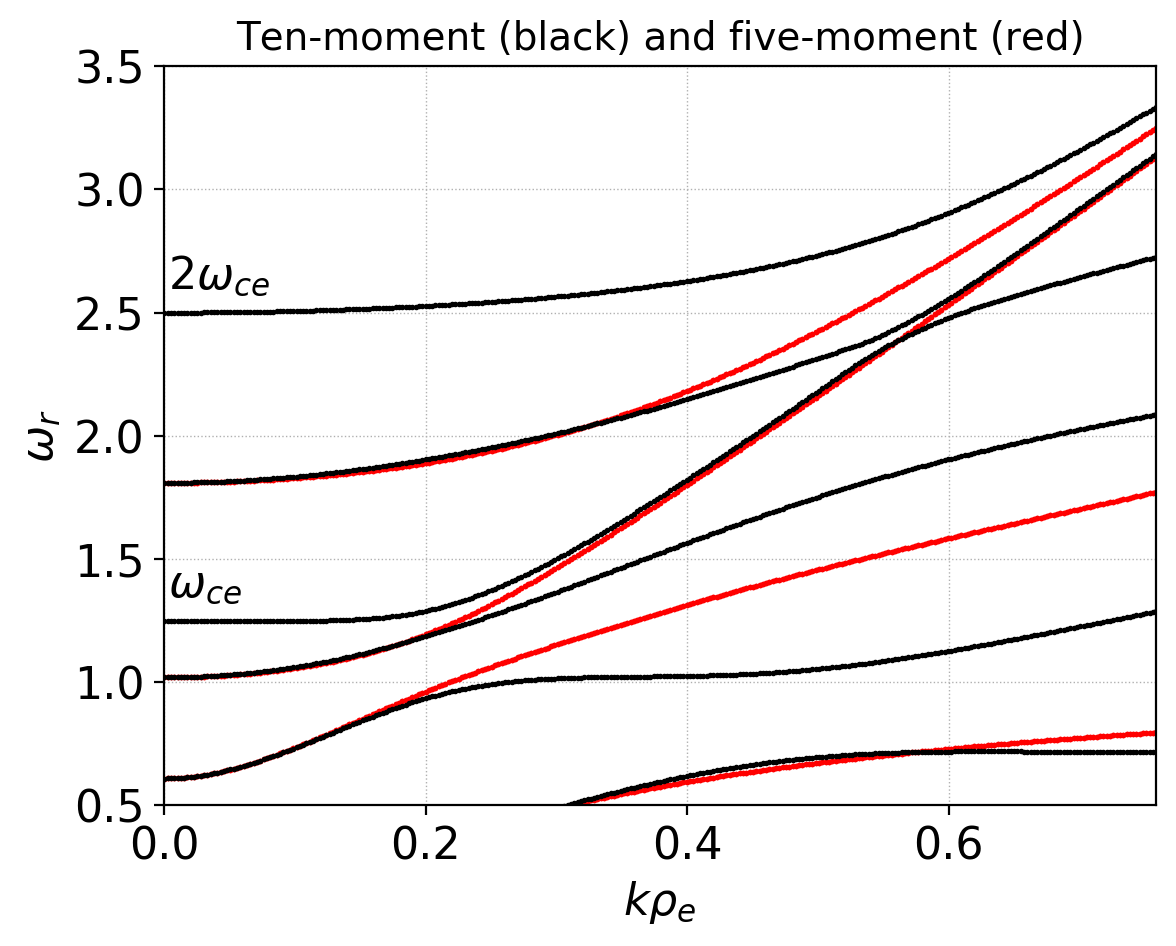
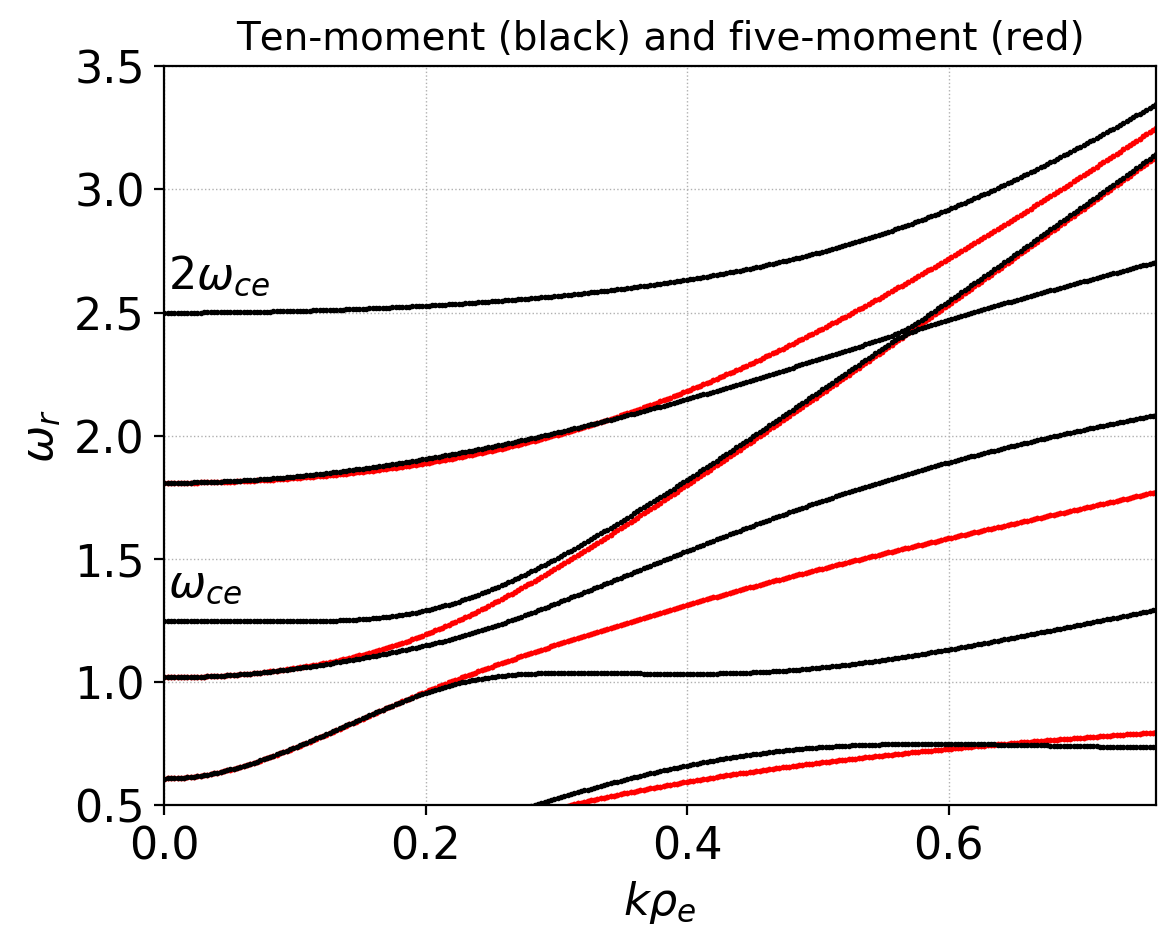
Ten-moment comparisons with high and low-frequency branches of five-moment models

diff --git a/je/je34/je34-linear-dispersion.rst b/je/je34/je34-linear-dispersion.rst
@@ -38,10 +38,123 @@ model and Landau closures is unique to Gkeyll.
 Eventually, the goal is to perform a careful comparison of the linear
 physics contained in the ten-moment system (especially with various
 Landau and other simplified closures) with full kinetic
-equations. Other applications are to computing RF wave-propagation and
-potential extension to retain quadratic nonlinearities to allow study
-of wave-wave coupling physics.
+equations. Other applications are to computing initial conditions that
+excite specific modes, computing RF wave-propagation and potential
+extension to retain quadratic nonlinearities to allow study of
+wave-wave scattering/coupling physics.
 
+Note on running the dispersion solver tool
+------------------------------------------
+
+To run the tool create an input file (Lua script, see examples below
+in various figure captions) and run it as::
+
+  gkyl multimomlinear -i inp.lua
+
+This will create a output file with the eigenvalues stored in a Gkeyll
+"DynVector" object. For each element in the dynvector, the first three
+components are the components of the wave-vector and the rest the
+corresponding :math:`\omega_n(\mathbf{k})` with real and imaginary
+parts stored separately (next to each other). You can plot the real
+part of the frequencies as function of wave-vector (say :math:`k_x`)
+as::
+
+  pgkyl -f inp_frequencies.bp val2coord -x0 -y 3::2 pl -s -f0 --no-legend --xlabel "k" --ylabel "$\omega_r$"
+
+And the imaginary parts as::
+
+  pgkyl -f inp_frequencies.bp val2coord -x0 -y 4::2 pl -s -f0 --no-legend --xlabel "k" --ylabel "$\omega_i$"
+
+Often, it is useful to plot the eigenvalues in the complex plane (real
+part on X-axis and imaginary part on the Y-axis). For this do::
+
+  pgkyl -f inp_frequencies.bp val2coord -x3::2 -y 4::2 pl -s -f0 --no-legend --xlabel "$\omega_r$" --ylabel "$\omega_i$"  
+
+Note that the frequencies are not outputed in any particular
+order. Hence it is not possible to easily extract a single "branch" of
+the dispersion relation from the output. Please see pgkyl help to
+understand what the ``val2coord`` and ``pl`` (short for ``plot``) do
+and how to use them.
+
+The boolean flag ``calcEigenVectors`` can be set to ``true`` to
+optionally compute the eigenvectors. These are stored in a
+``CartField`` object.
+
+Waves in a uniform plasma
+-------------------------
+
+In the first test I look at the problem of waves in a uniform
+plasma. The first test assumes the plasma is composed of cold
+electrons and ions (:math:`m_i/m_e = 25`) with the background magnetic
+field :math:`\mathbf{B}_0 = (1.0, 0.0, 0.75)` transverse to the
+wave-vector pointing in the X-direction . The following plot shows the
+various plasma waves that appear in the system.
+
+.. figure:: iso-cold-waves.png
+  :width: 100%
+  :align: center
+
+  Waves in a cold magnetized plasma, with wave-vector transverse to
+  the background magnetic field. Seen are the right (R) and left (L)
+  polarized modes that asymptote to light waves at large
+  :math:`k`. Also seen the second branch of the R mode which contains
+  the Whister mode at low-:math:`k` and also the Alfven mode. See
+  input file :doc:`iso-1-wave <iso-1-wave>`.
+
+In the next problem I use the five-moment model with a finite pressure
+:math:`p = 0.1` for both electrons and ions. The dispersion relation
+is compared to the corresponding cold case in the following plot.
+
+.. figure:: iso-5m-cmp-cold.png
+  :width: 100%
+  :align: center
+
+  Waves in a cold (black) and five-moment finite-pressure (red)
+  magnetized plasma, with wave-vector transverse to the background
+  magnetic field. The finite pressure effect changes the sound-wave
+  mediated branches, allowing them to propagating at high :math:`k`.
+  See input file :doc:`5m-1-wave <5m-1-wave>`.
+
+For the next test I use the ten-moment model with a diagonal pressure
+tensor :math:`P_{xx} = P_{yy} = P_{zz} = 0.1` and all other components
+set to zero. This gives the same scalar pressure as the previous
+five-moment test. The ten-moment model has a a lot of modes. To
+illustrate the differences between five-moments the following plot
+shows the high-frequency branches of the dispersion relation. Note the
+existence of *two* cyclotron harmonics marked with :math:`\omega_{ce}`
+and :math:`2 \omega_{ce}` in the plot. These are missing in the
+five-moment model. Also, the R- and L-mode structure is different,
+with the lower cyclotron harmonic transitioning to the L-mode and the
+upper cyclotron harmomic to the R-mode at larger :math:`k` values.
+
+.. figure:: 10m-5m-cmp-elc.png
+  :width: 100%
+  :align: center
+
+  Comparison of high-frequency branches of the dispersion relation for
+  ten-moment (black) and five-moment (red) models. The ten-moment
+  model contains the first two electron cyclotron harmonics which
+  transition to the L- and R-mode at higher :math:`k`. See input file
+  :doc:`10m-1-wave <10m-1-wave>`.
+
+The following plot shows the low-frequency branches of the ten-moment
+model compared to the five-moment model. Again, the two ion cyclotron
+harmonics are seen as well as the various ion acoustic mediated
+branches.
+
+.. figure:: 10m-5m-cmp-ion.png
+  :width: 100%
+  :align: center
+
+  Comparison of low-frequency branches of the dispersion relation for
+  ten-moment (black) and five-moment (red) models. The first two ion
+  cyclotron harmonics are seen. See input file :doc:`10m-1-wave
+  <10m-1-wave>`.
+
+The tests in these sections were done without any closures, and in
+particular, without Landau closures. In the kinetic system many of the
+modes seen above are damped.
+  
 References
 ----------
 

diff --git a/index.rst b/index.rst
@@ -89,4 +89,5 @@ Gkeyll Simulation Journal
   je/je31/je31-antilim-adv.rst
   je/je32/je32-vlasov-test-ptcl.rst
   je/je33/je33-buneman.rst
+  je/je34/je34-linear-dispersion.rst
 

diff --git a/je/je34/5m-1-wave.rst b/je/je34/5m-1-wave.rst
@@ -1,3 +1,3 @@
-.. literalinclude:: ../../sims-g2/mom-lin-disp/iso-1/iso-1-waves.lua
+.. literalinclude:: ../../sims-g2/mom-lin-disp/5m-1/5m-1-waves.lua
   :language: lua
 	     

diff --git a/je/je34/10m-1-wave.rst b/je/je34/10m-1-wave.rst
@@ -1,0 +1,2 @@
+.. literalinclude:: ../../sims-g2/mom-lin-disp/10m-1/10m-1-waves.lua
+  :language: lua
